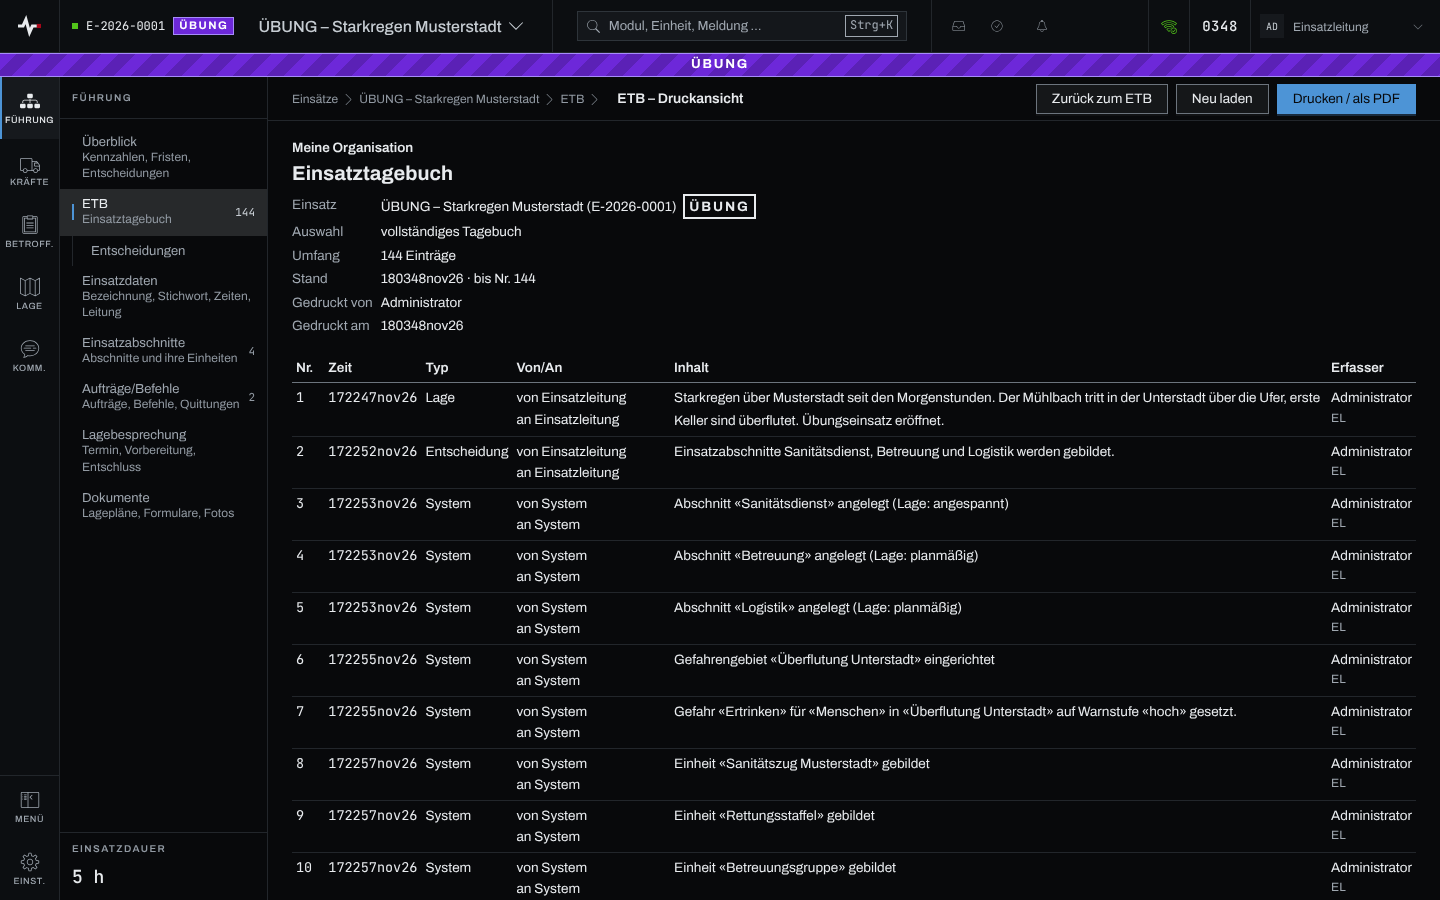
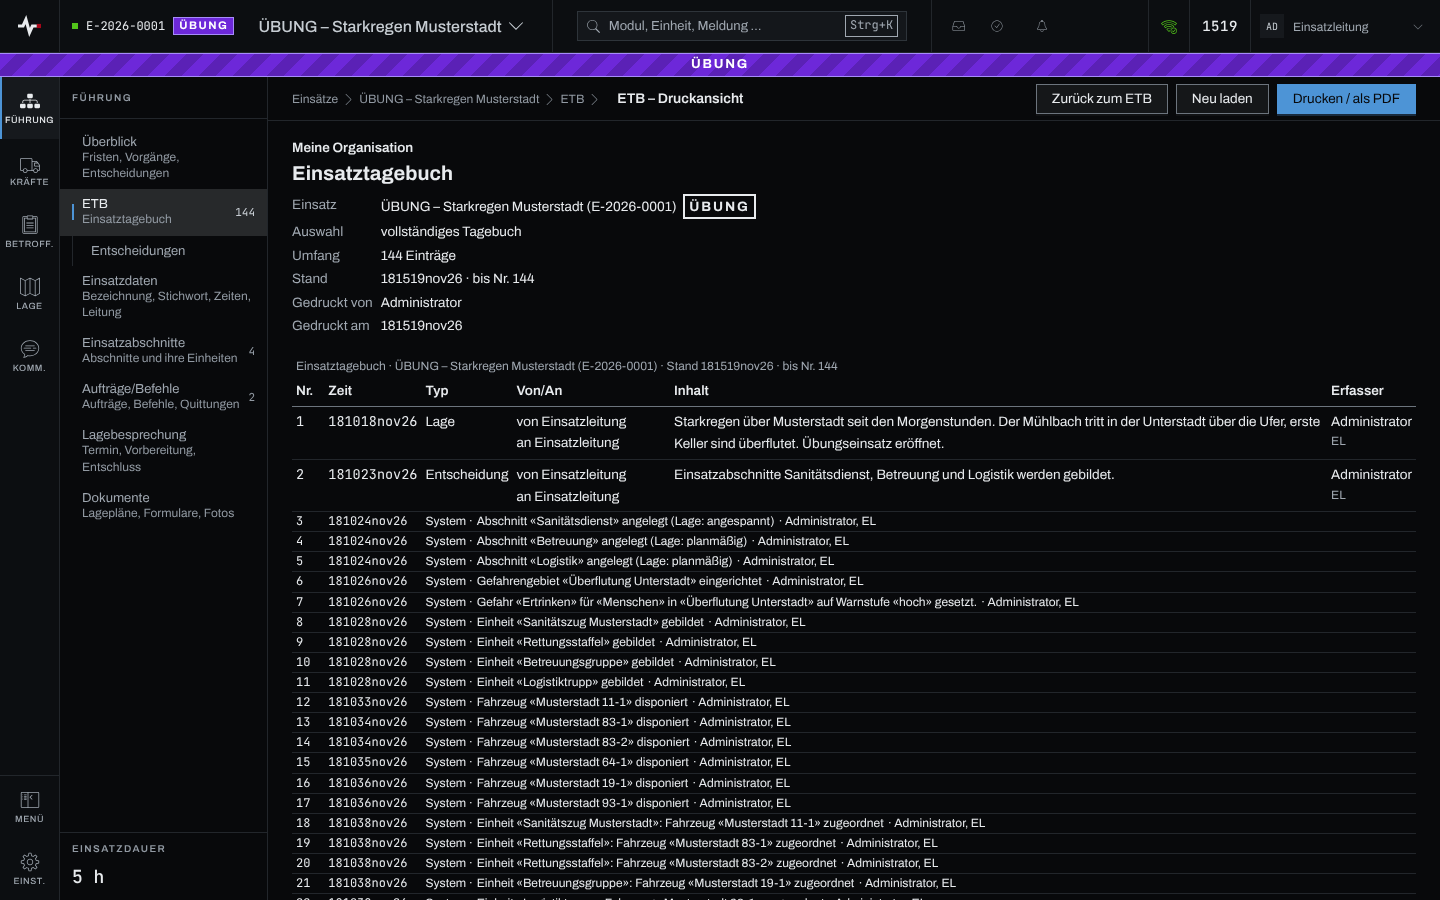
docs(anwender): ETB-Druckansicht mit Laufzeile und verdichteten Systemeinträgen
Zunder: https://zunder.rubeen.dev/#/aufgabe/s4u2yl0p5icigp4lx42mgu4e

Claude-Session: https://claude.ai/code/session_01BgRwpZ4X8zJng5446KjJjr

diff --git a/openspec/changes/s4u2yl0p-etb-druck-kopfzeile-verdichten/tasks.md b/openspec/changes/s4u2yl0p-etb-druck-kopfzeile-verdichten/tasks.md
@@ -17,7 +17,7 @@ Zunder: https://zunder.rubeen.dev/#/aufgabe/s4u2yl0p5icigp4lx42mgu4e
 ## 3. Regeln und Doku
 
 - [x] 3.1 `frontend/src/druck/AGENTS.md`, „ETB-Druck“: Laufzeile im `thead` statt `@page`-Text, Systemeinträge verdichtet; Prettier über `frontend/` grün
-- [ ] 3.2 `docs/anwender/kapitel/drucken-export.md`, Abschnitt ETB-Druckansicht: Laufzeile (mit Hinweis Safari nur Seite 1) und verdichtete Systemeinträge beschreiben; Bild nach `docs/anwender/AGENTS.md` erneuern, falls es die Stelle zeigt; Doku-Wächter grün
+- [x] 3.2 `docs/anwender/kapitel/drucken-export.md`, Abschnitt ETB-Druckansicht: Laufzeile (mit Hinweis Safari nur Seite 1) und verdichtete Systemeinträge beschreiben; Bild nach `docs/anwender/AGENTS.md` erneuern, falls es die Stelle zeigt; Doku-Wächter grün
 
 ## 4. Gesamtprüfung
 

diff --git a/docs/anwender/kapitel/drucken-export.md b/docs/anwender/kapitel/drucken-export.md
@@ -36,7 +36,7 @@ exportieren“.
 2. Im Kopf der Seite „Drucken / als PDF“ wählen. Die „ETB – Druckansicht“ öffnet sich mit
    demselben Filter.
 
-   ![ETB – Druckansicht mit Druckkopf (Organisation, Einsatz, Auswahl, Umfang, Stand, gedruckt von und am) und der Tabelle mit Nr., Zeit, Typ, Von/An, Inhalt und Erfasser](../bilder/drucken-export/etb-druckansicht.png)
+   ![ETB – Druckansicht mit Druckkopf (Organisation, Einsatz, Auswahl, Umfang, Stand, gedruckt von und am), der Laufzeile mit Einsatz und Stand und der Tabelle mit Nr., Zeit, Typ, Von/An, Inhalt und Erfasser; Systemeinträge stehen einzeilig](../bilder/drucken-export/etb-druckansicht.png)
 
 3. Warten, bis die Tabelle steht. Bis alle Einträge geladen sind, ist „Drucken / als PDF“
    gesperrt.
